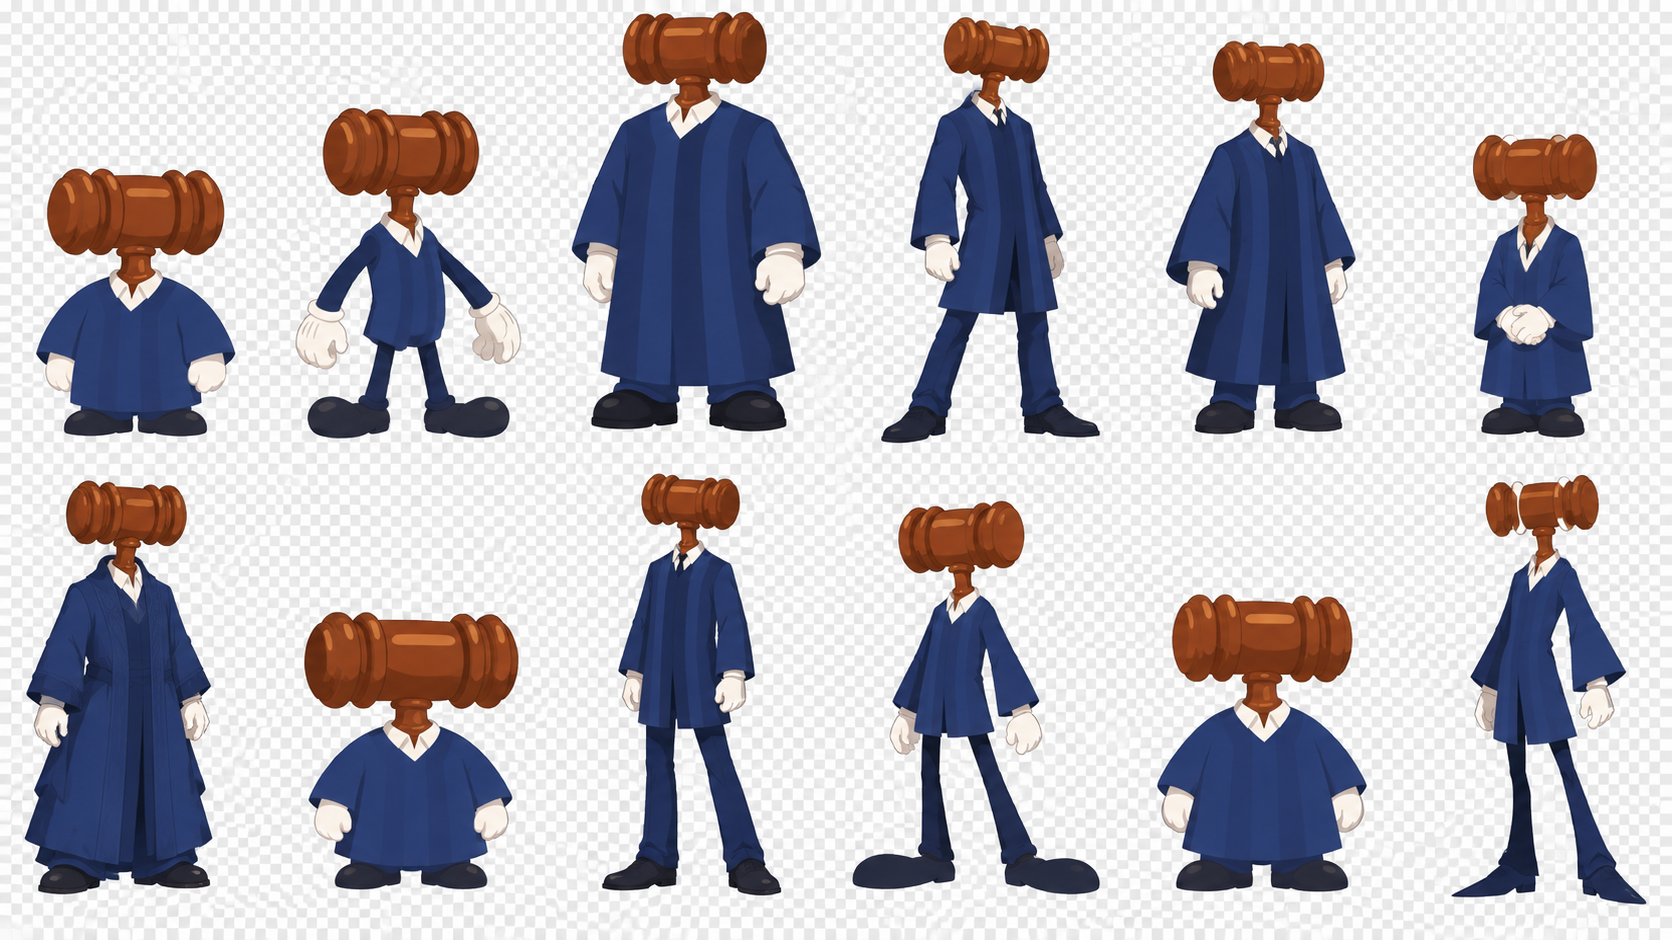
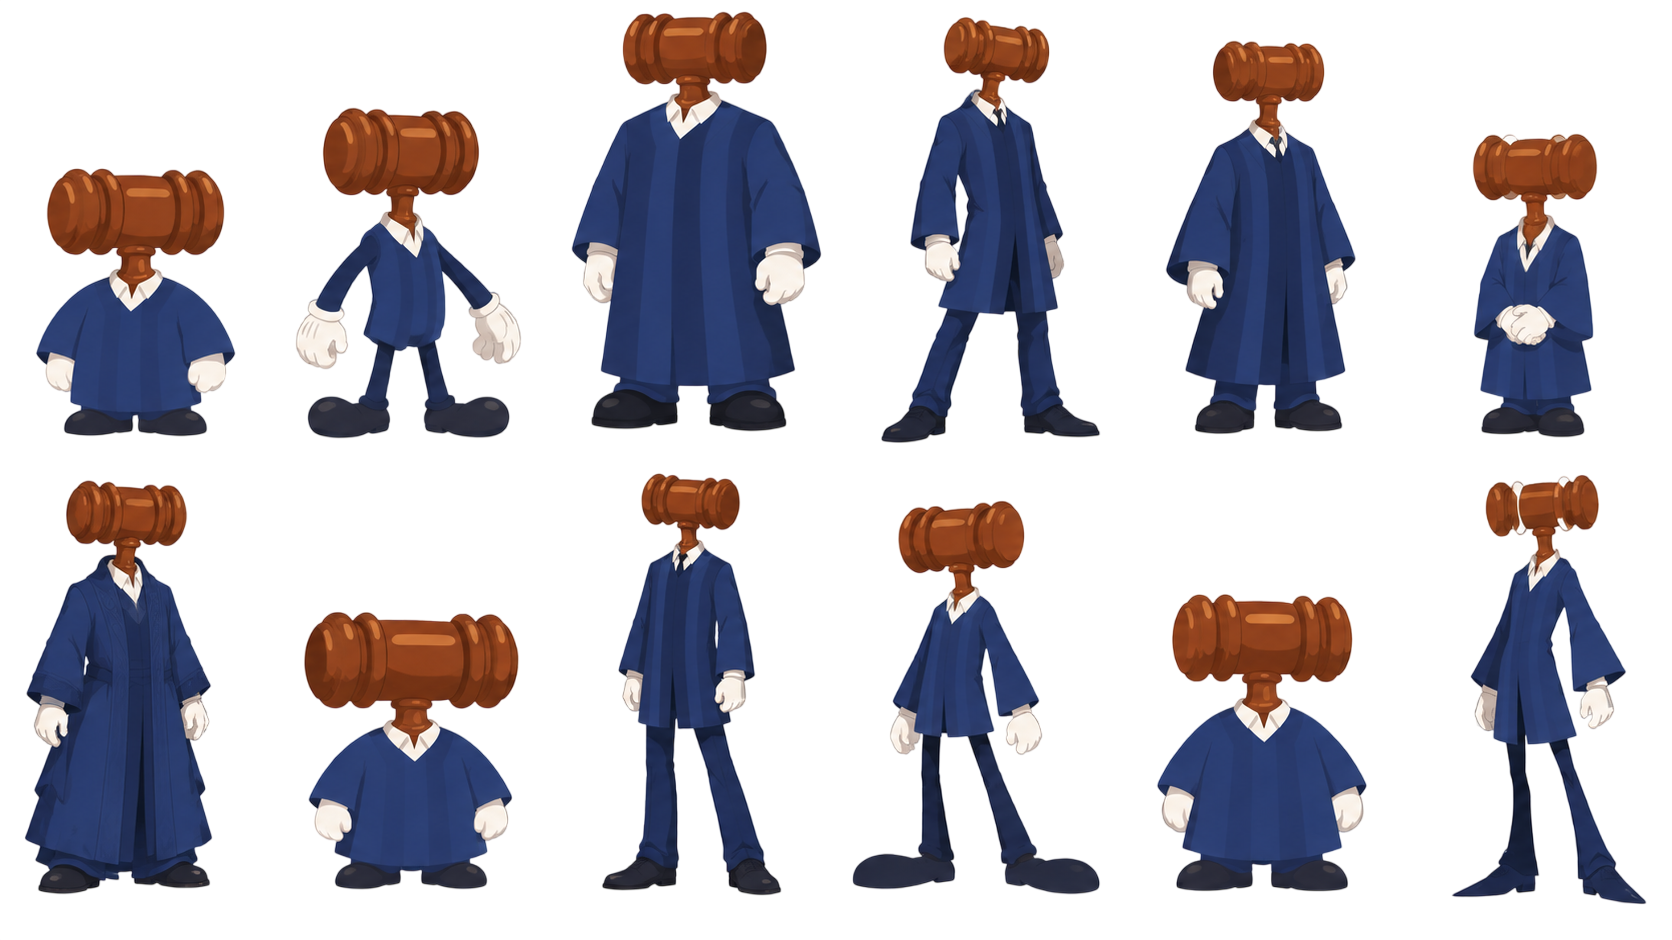
fix : COMMON-46 흰 배경이던 로봉 · 로북 시트 3장을 투명본으로 교체 · README 갱신

diff --git a/README.md b/README.md
@@ -61,7 +61,7 @@ character/
 │   ├── reenact/case-{사건 id}/  사건별 재연 컷(`headline` · `sub-1` · `detail-1`)
 │   ├── trio/            로 3인 합의 컷(`trio_cut_*` 기존 · `trio_cut-mascot_*` 마스코트 버전)
 │   └── compare/         내로 · 로울 · 남불 비교 컷(`compare_cut_*` 기존 · `compare_cut-mascot_*` 마스코트 버전)
-└── _original/    생성 직후 원본 백업(166장, `original_` 접두사)
+└── _original/    생성 직후 원본 백업(169장, `original_` 접두사)
 ```
 
 - **쓸 때는 `standing/` · `sheets/` · `cuts/`의 파일을 쓴다.** `_original/`은 백업이다.
@@ -91,6 +91,8 @@ character/
 > 10/20 추가: 로 의상 시트 3장, 5명 라인업 시트 5장, 마스코트 로 컷 9장, 마스코트 합의 · 비교 컷 3장, 내로 · 남불 역할 컷 10장. `cuts/{캐릭터}/base/`를 `scene` · `cheek` · `cheek-slim` · `role` · `mascot` 하위 폴더로 나눴다. 로 데포르메 시트 중 cheek · ranma · ppg 9장은 아직 없다.
 >
 > 10/20 추가(2): 볼따구 컷을 시트 `deform-cheek` 기준(짧은 만두형 몸통 · 납작한 볼)으로 4장 다시 만들어 `base/cheek/`에 넣었다. 이전 컷 4장은 `base/cheek-slim/`(`cut-cheek-slim_*`)으로 이름을 바꿔 보존하고, 그 그림체의 시트 2장(`deform-cheek-slim`)을 새로 만들었다. 새 시트는 눈이 작고 볼 강조가 적은 옛 아기 캐릭터 느낌을 노렸지만 기존 시트와 차이가 크지 않다. 재생성 여부는 검수 후 정한다.
+>
+> 10/20 추가(3): 배경이 흰색(알파 없음)으로 나온 로봉 · 로북 라인업 시트와 로봉 의상 시트 3장을 배경 제거한 투명본으로 교체했다. 흰 배경 원본은 `_original/`에 `original_{이름}_v1.png`로 보존했다.
 
 10/14에 검수한 이미지는 모두 통과했다(샘플 기준). 10/19 · 10/20에 추가한 이미지는 아직 검수 전이다.
 
